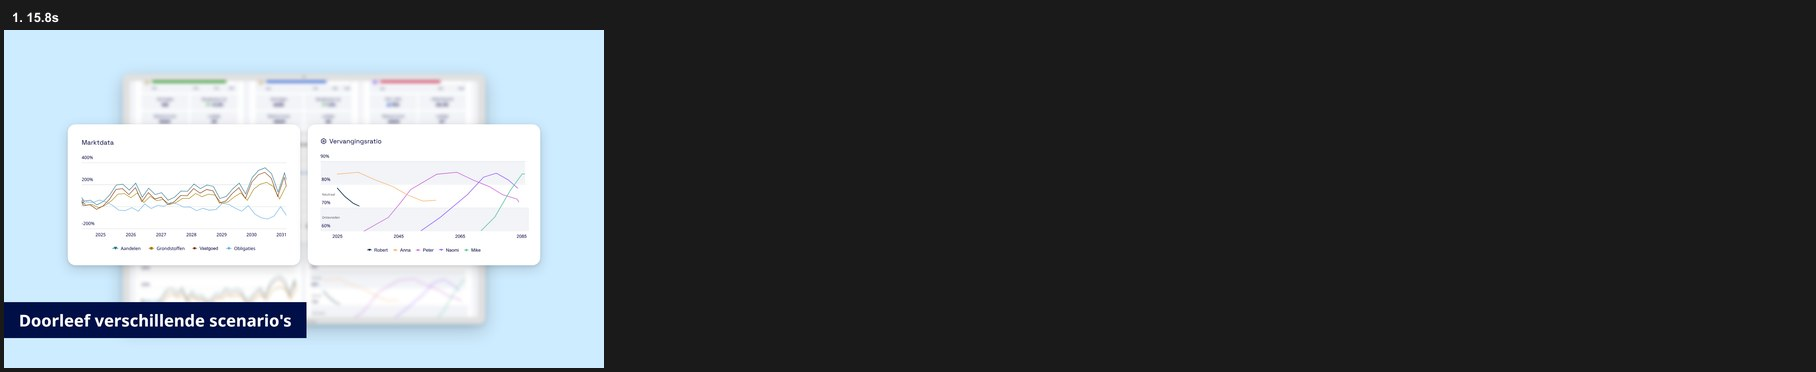
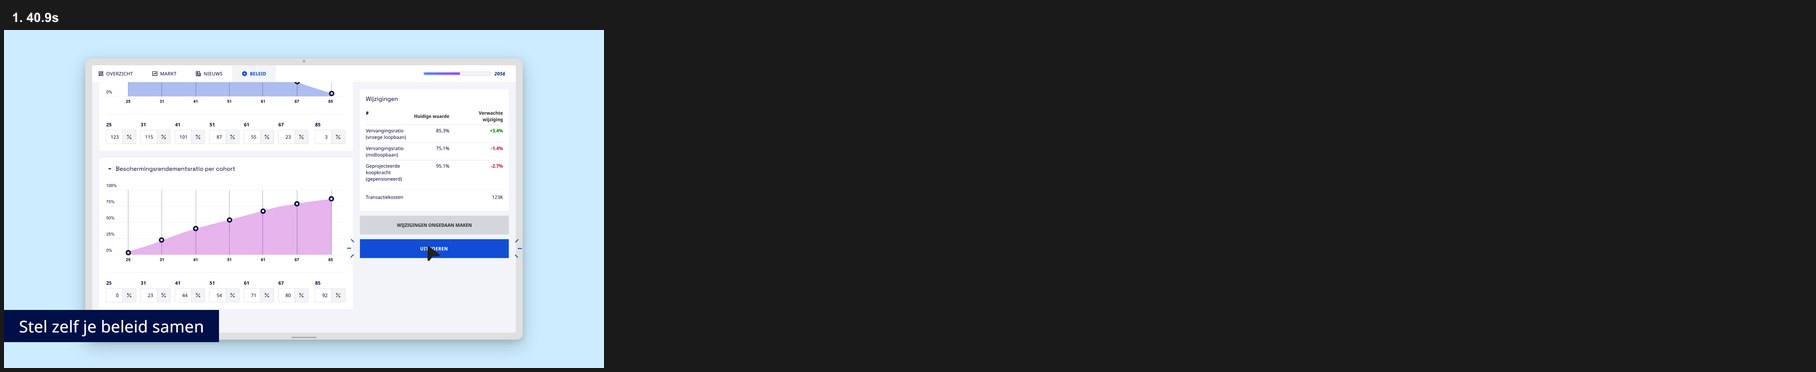
Updated cursor outro burst

Changed region(s): [[0.0, 0.1478, 0.3084, 0.9462], [0.0, 0.0296, 0.0308, 0.0591]]

diff --git a/compositions/scene4-controls.html b/compositions/scene4-controls.html
@@ -23,12 +23,13 @@
           </div>
           <!-- Inner shadow overlay op de UITVOEREN-knop bij klik -->
           <div id="sc4-uitvoeren-btn"></div>
-          <!-- Click-burst streepjes links en rechts van de knop (gevuld via JS) -->
+          <!-- Click-burst links van de knop (gevuld via JS) -->
           <div id="sc4-burst-left"></div>
-          <div id="sc4-burst-right"></div>
           <!-- Muiscursor -->
           <img id="sc4-cursor" src="../assets/cursor.svg" alt="" aria-hidden="true" />
         </div>
+        <!-- Click-burst rechts buiten panel-window zodat overflow:hidden niet afknipt -->
+        <div id="sc4-burst-right"></div>
         <div id="sc4-tablet-home"></div>
       </div>
 
@@ -121,15 +122,16 @@
       }
 
       /* Click-burst — streepjes aan linker- en rechterzijde van de knop */
-      /* Knop: left=857 width=477 → right edge=1334, center-y=586 */
+      /* Knop in panel-window: left=857 width=477 → right edge=1334, center-y=586 */
       #sc4-burst-left, #sc4-burst-right {
         position: absolute;
         width: 0; height: 0;
-        top: 586px;
         z-index: 6; pointer-events: none;
       }
-      #sc4-burst-left  { left: 857px; }
-      #sc4-burst-right { left: 1334px; }
+      /* Links: relatief aan panel-window */
+      #sc4-burst-left  { left: 857px;  top: 586px; }
+      /* Rechts: relatief aan tablet-frame (+22px padding offset) — buiten overflow:hidden panel */
+      #sc4-burst-right { left: 1356px; top: 608px; }
       #sc4-burst-left .ray,
       #sc4-burst-right .ray {
         position: absolute; left: 0; top: 0;
@@ -165,8 +167,8 @@
       /* Cursor */
       #sc4-cursor {
         position: absolute; top: 0; left: 0;
-        width: 28px; height: auto;
-        z-index: 5; pointer-events: none; opacity: 0;
+        width: 56px; height: auto;
+        z-index: 5; pointer-events: none;
       }
     </style>
 
@@ -198,29 +200,27 @@
       tl.to("#sc4-panel-img", { y: -1500, duration: 1.5, ease: "sine.inOut" }, 9.5);
       // Stilstand beschermingsrendement (11.0–11.3s)
 
-      // ── Cursor: verschijnt na laatste scroll (t=11.2) ──
-      tl.set("#sc4-cursor", { x: 1060, y: 640 }, 0);
-      tl.to("#sc4-cursor", { opacity: 1, duration: 0.5, ease: "power2.out" }, 11.2);
-      // Cursor beweegt naar de knop
-      tl.to("#sc4-cursor", { y: 575, duration: 0.5, ease: "power2.inOut" }, 11.7);
+      // ── Cursor: schuift in via rechter rand (overflow:hidden knipt x>1356 af) ──
+      tl.set("#sc4-cursor", { x: 1500, y: 640 }, 0);
+      tl.fromTo("#sc4-cursor", { x: 1500 }, { x: 1060, duration: 0.3, ease: "power2.out" }, 11.2);
+      tl.fromTo("#sc4-cursor", { y: 640 }, { y: 575, duration: 0.5, ease: "power2.inOut" }, 11.7);
 
       // ── Klik op UITVOEREN (t=12.3) ──
-      // Indrukken: cursor zakt licht in én de knop wordt zichtbaar ingedrukt
-      tl.to("#sc4-cursor",       { y: 582,                 duration: 0.10, ease: "power2.in" }, 12.30);
-      tl.to("#sc4-uitvoeren-btn",{ opacity: 1, scale: 0.97, duration: 0.10, ease: "power2.in" }, 12.30);
+      tl.fromTo("#sc4-cursor",        { y: 575 }, { y: 582,                        duration: 0.10, ease: "power2.in"    }, 12.30);
+      tl.fromTo("#sc4-uitvoeren-btn", { opacity: 0, scale: 1 }, { opacity: 1, scale: 0.97, duration: 0.10, ease: "power2.in" }, 12.30);
 
-      // Kort ingedrukt houden, dan loslaten: knop veert terug, schaduw verdwijnt
-      tl.to("#sc4-cursor",       { y: 575,        duration: 0.22, ease: "back.out(2.2)" }, 12.48);
-      tl.to("#sc4-uitvoeren-btn",{ scale: 1,      duration: 0.22, ease: "back.out(2.2)" }, 12.48);
-      tl.to("#sc4-uitvoeren-btn",{ opacity: 0,    duration: 0.28, ease: "power2.out"   }, 12.56);
+      // Loslaten: knop veert terug, schaduw verdwijnt
+      tl.fromTo("#sc4-cursor",        { y: 582 }, { y: 575,     duration: 0.22, ease: "back.out(2.2)" }, 12.48);
+      tl.fromTo("#sc4-uitvoeren-btn", { scale: 0.97 }, { scale: 1, duration: 0.22, ease: "back.out(2.2)" }, 12.48);
+      tl.fromTo("#sc4-uitvoeren-btn", { opacity: 1 }, { opacity: 0, duration: 0.28, ease: "power2.out"  }, 12.56);
 
       // Click-burst: waaier van streepjes aan linker- en rechterkant van de knop
       // Verschijnt nadat de knop terug is geveerd (t=12.70)
       const BURST_T = 12.70;
       const RAYS = 3;
       [
-        { el: "#sc4-burst-left",  angleFrom:  45, angleTo:  135 }, // waaiert naar links
-        { el: "#sc4-burst-right", angleFrom: -135, angleTo: -45 }, // waaiert naar rechts
+        { el: "#sc4-burst-left",  angleFrom:  45, angleTo:  135 },
+        { el: "#sc4-burst-right", angleFrom: -135, angleTo:  -45 },
       ].forEach(({ el, angleFrom, angleTo }) => {
         const container = document.querySelector(el);
         for (let i = 0; i < RAYS; i++) {
@@ -234,13 +234,14 @@
           tl.fromTo(line,
             { y: 6, opacity: 0, scaleY: 0.4 },
             { y: 28, opacity: 1, scaleY: 1, duration: 0.18, ease: "power3.out" }, BURST_T + i * 0.015);
-          tl.to(line,
+          tl.fromTo(line,
+            { y: 28, opacity: 1, scaleY: 1 },
             { y: 50, opacity: 0, scaleY: 0.6, duration: 0.30, ease: "power2.in" }, BURST_T + 0.18 + i * 0.015);
         }
       });
 
-      // Cursor verdwijnt rustig na klik
-      tl.to("#sc4-cursor", { opacity: 0, duration: 0.4, ease: "power2.in" }, 12.8);
+      // Cursor schuift weer naar rechts buiten beeld
+      tl.fromTo("#sc4-cursor", { x: 1060 }, { x: 1500, duration: 0.3, ease: "power2.in" }, 12.8);
 
       // ── Cinematische zoom-in + achtergrond fade naar donkerblauw ──
       tl.to("#sc4-stage",        { scale: 1.18, opacity: 0,  duration: 1.0, ease: "power2.in" }, 13.0);

diff --git a/compositions/scene5-logo-outro.html b/compositions/scene5-logo-outro.html
@@ -13,14 +13,6 @@
 
       <div id="glow-o"></div>
 
-      <div id="cta">
-        <div id="cta-sentence">Vraag nu jouw PensionSim workshop aan:</div>
-        <div id="cta-url-wrap">
-          <div id="cta-url">www.cardano.nl/pensionsim</div>
-          <div id="cta-shimmer"></div>
-        </div>
-      </div>
-
       <div id="logo-wrap-o">
         <svg id="logo-o" viewBox="0 0 2350 1200" xmlns="http://www.w3.org/2000/svg" aria-label="Cardano">
           <defs>
@@ -43,6 +35,14 @@
         </svg>
       </div>
 
+      <div id="cta">
+        <div id="cta-sentence">Vraag nu jouw PensionSim workshop aan:</div>
+        <div id="cta-url-wrap">
+          <div id="cta-url">www.cardano.nl/pensionsim</div>
+          <div id="cta-shimmer"></div>
+        </div>
+      </div>
+
     </div>
 
     <style>
@@ -56,20 +56,13 @@
       }
 
       #logo-wrap-o {
-        position: absolute;
-        bottom: 108px;
-        left: 50%;
-        transform: translateX(-50%);
         width: 480px;
+        margin-bottom: 56px;
         z-index: 1;
       }
       #logo-o { display: block; width: 100%; height: auto; }
 
       #cta {
-        position: absolute;
-        top: 40%;
-        left: 50%;
-        transform: translate(-50%, -50%);
         text-align: center;
         font-family: "Noto Sans", system-ui, sans-serif;
         z-index: 1;